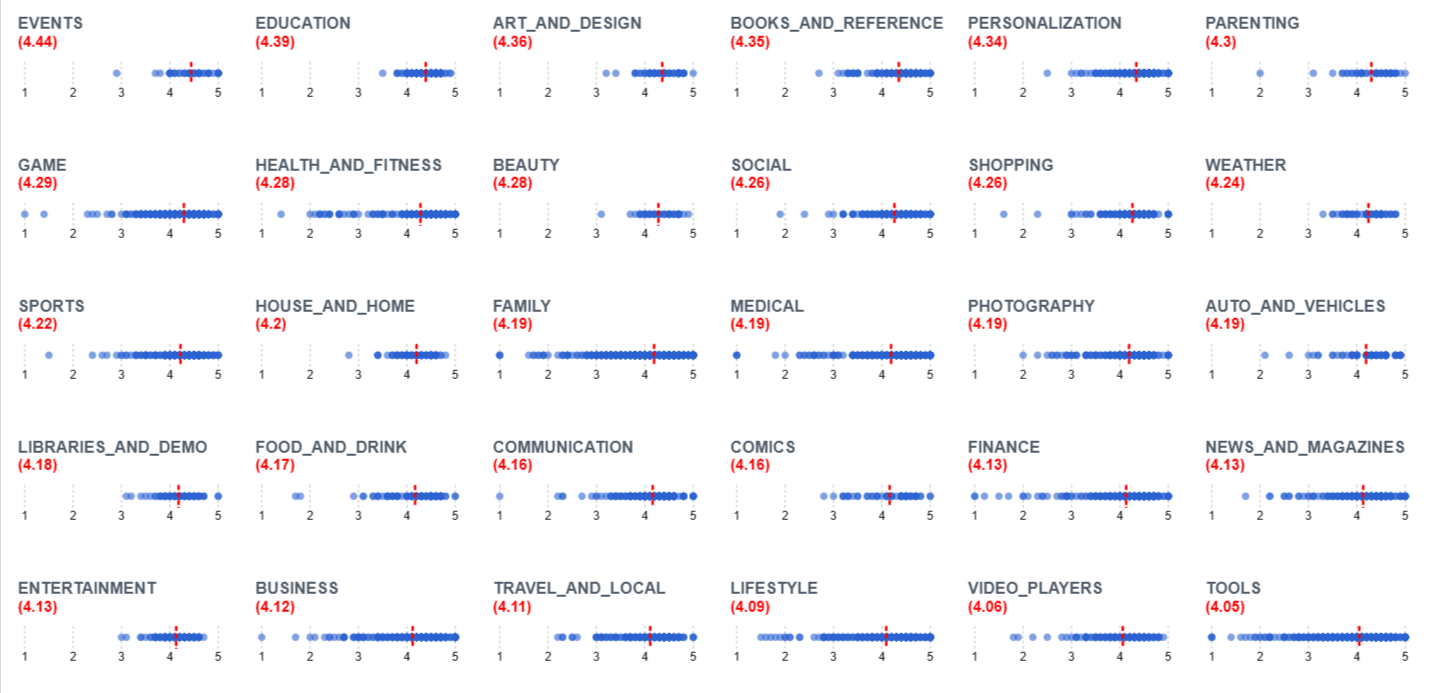
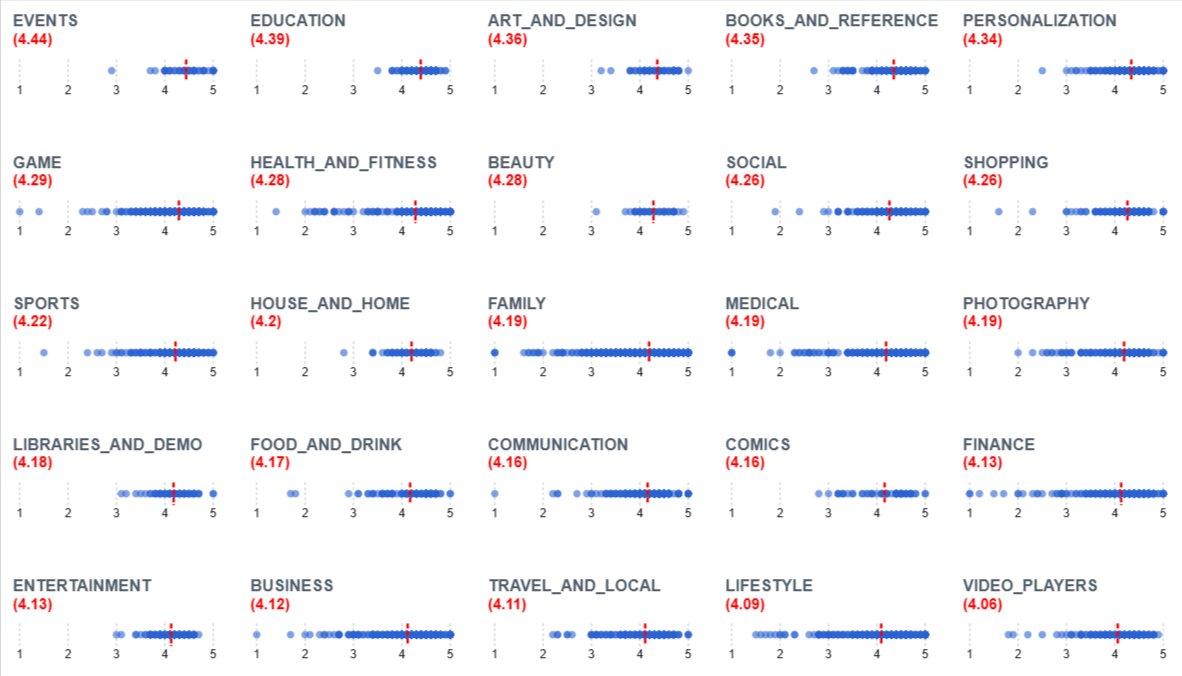
add new project

diff --git a/index.html b/index.html
@@ -65,6 +65,17 @@
 					</div>	
 					<div class="col-lg-4 col-md-4 col-sm-6 col-xs-6 work-example-wrap">
 						<div class='work-ex-inner'>
+							<h4>Insights from 10,000+ Google Play Apps</h4>
+							<div class='work-example'>
+								<div class="work-image-container">
+									<img src="images/googleplay.png">
+								</div>
+								<a class="fill-div" href='https://observablehq.com/@renee-lempert/insights-from-10-000-google-play-apps' target='_blank'></a>
+							</div>
+						</div>
+					</div>
+					<div class="col-lg-4 col-md-4 col-sm-6 col-xs-6 work-example-wrap">
+						<div class='work-ex-inner'>
 							<h4>U.S. Housing Price Index</h4>
 							<div class='work-example'>
 								<div class="work-image-container">
